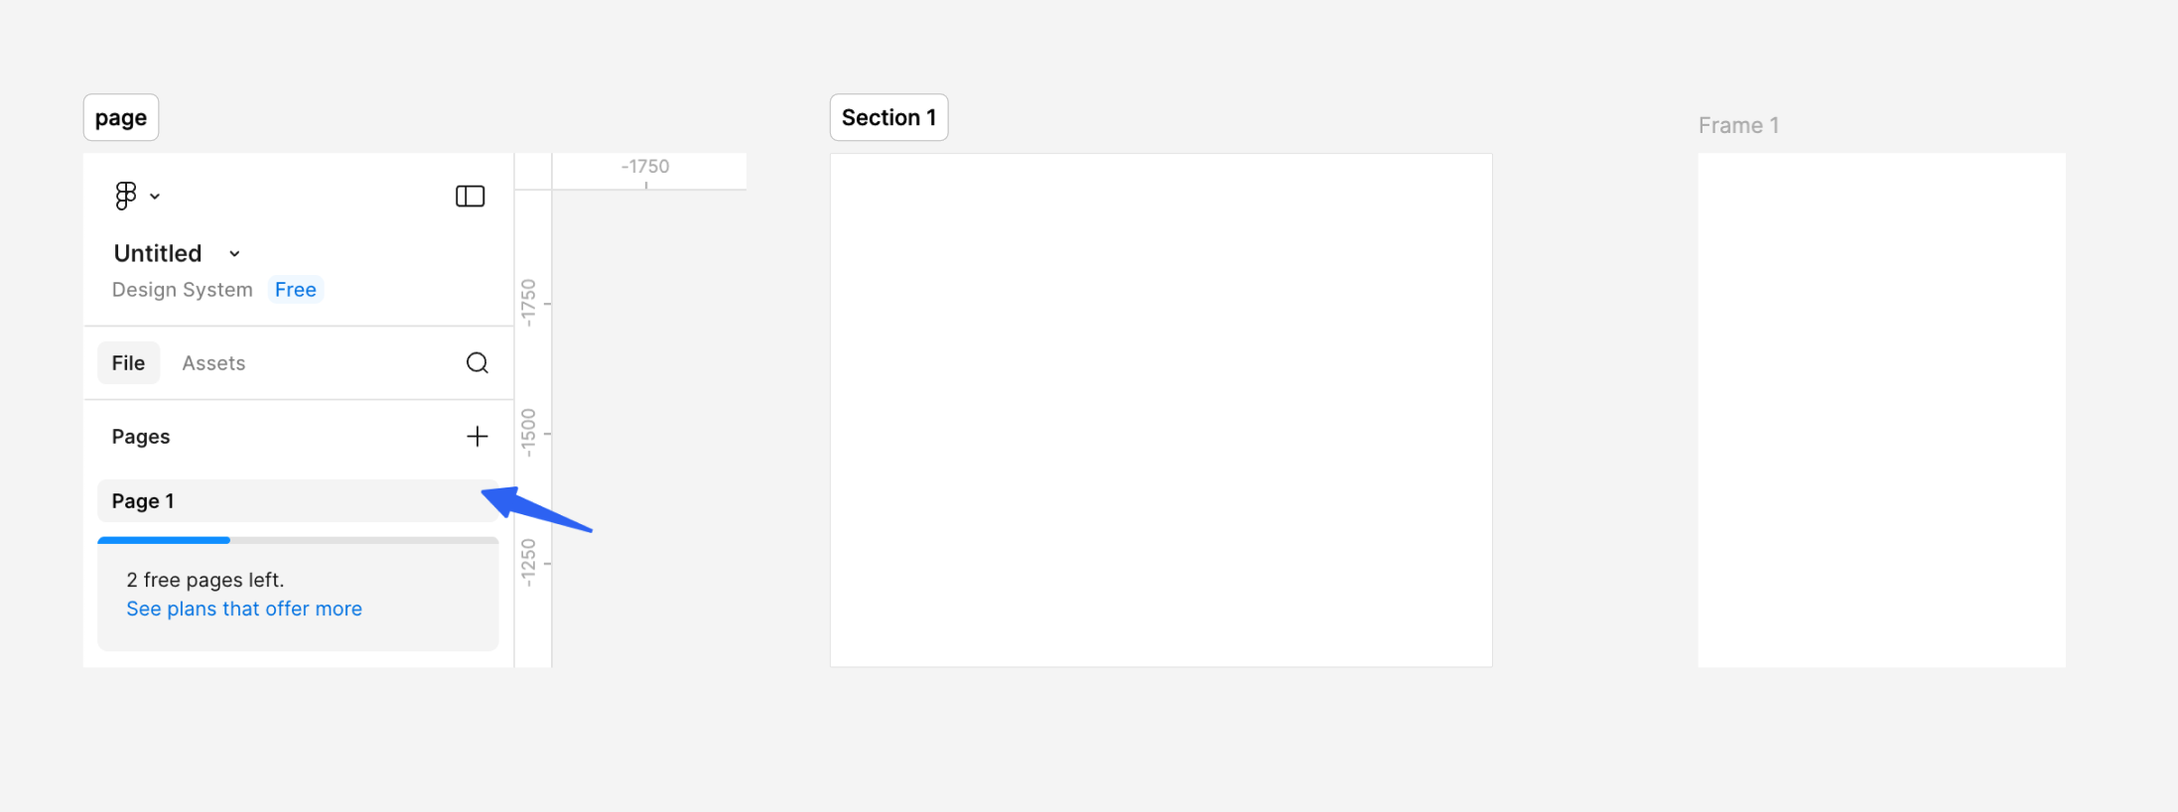
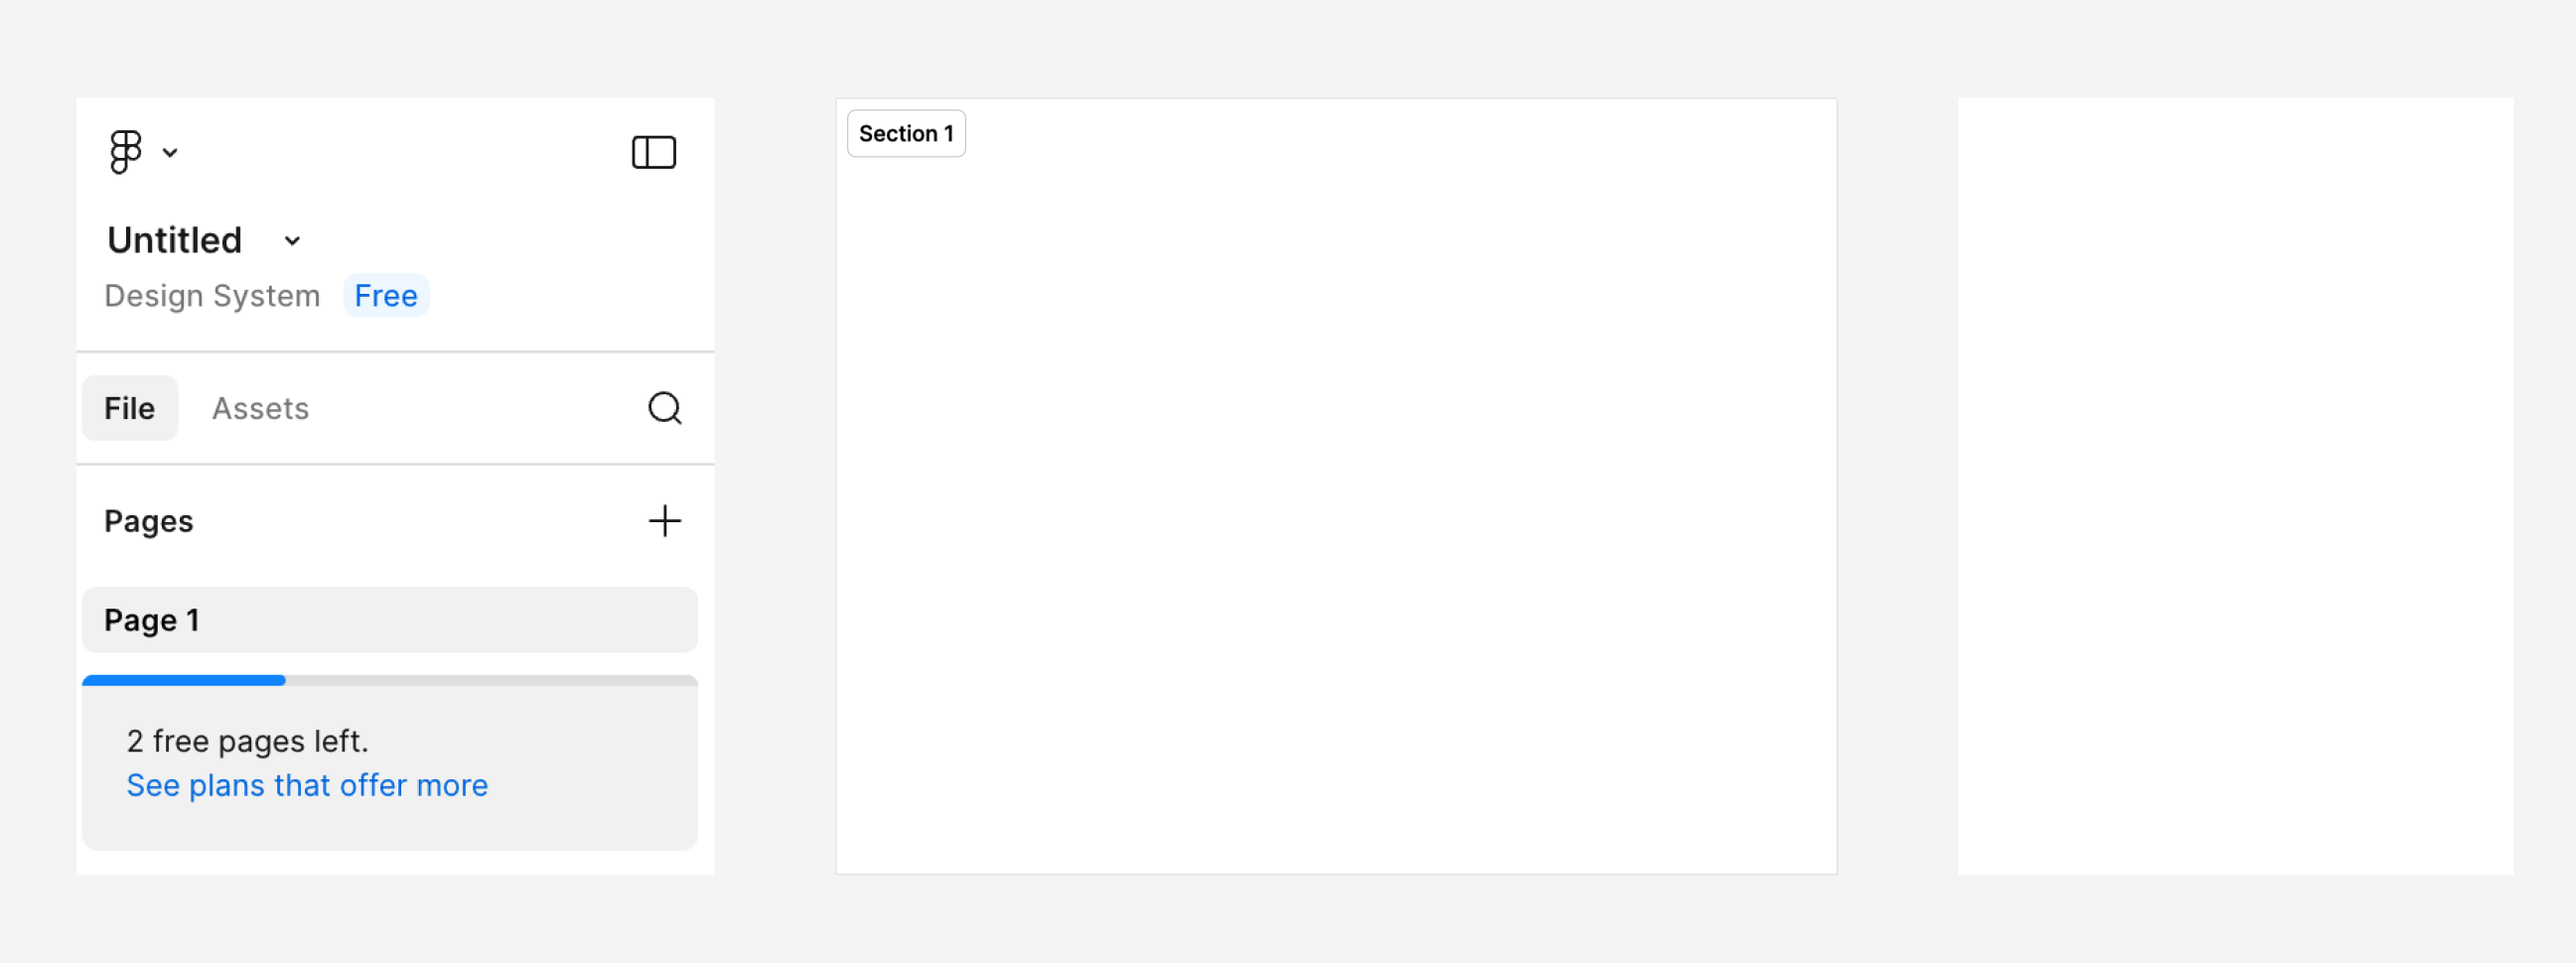
fix: 分析错误详情显示 + 按钮loading样式 + 结构图hover放大 + 图片更新
- analyze.js 返回具体错误类型（超时/key无效/频率限制）
- 前端 toast 显示具体错误信息而非通用"分析失败"
- imgToBase64 压缩到 1200px/质量0.75 减小请求体
- 开始比对按钮 loading 时保持品牌色不再变灰
- Figma 结构图 hover 浮层放大效果
- 替换为新版结构图

diff --git a/public/index.html b/public/index.html
@@ -626,7 +626,8 @@ tailwind.config = {
   .project-icon { width: 40px; height: 40px; border-radius: 12px; display: flex; align-items: center; justify-content: center; flex-shrink: 0; }
   .cta-btn { background: linear-gradient(135deg, var(--color-terracotta) 0%, #D4775A 100%); color: #fff; border: none; border-radius: 999px; padding: 10px 28px; font-size: 14px; font-weight: 600; cursor: pointer; transition: all .3s cubic-bezier(.4,0,.2,1); letter-spacing: .01em; }
   .cta-btn:hover { box-shadow: 0 6px 24px rgba(198,93,59,.3); transform: translateY(-2px); }
-  .cta-btn:disabled { background: #D1D1C9; color: #9A9A90; cursor: not-allowed; box-shadow: none; transform: none; }
+  .cta-btn:disabled:not(.loading) { background: #D1D1C9; color: #9A9A90; cursor: not-allowed; box-shadow: none; transform: none; }
+  .cta-btn.loading { opacity: .85; cursor: wait; box-shadow: none; transform: none; }
   .glass-toolbar { background: rgba(255,255,255,.6); backdrop-filter: blur(20px); -webkit-backdrop-filter: blur(20px); border: 1px solid rgba(255,255,255,.5); border-radius: 16px; box-shadow: 0 4px 20px rgba(31,31,31,.06); }
   /* Staggered entrance */
   .stagger-1 { animation: slideUp .5s cubic-bezier(.16,1,.3,1) .05s both; }
@@ -3269,8 +3270,8 @@ function showFigmaImportHelp() {
       </div>
       <div class="step"><div class="step-num">1</div><div class="step-text"><b>为什么上传 Figma 链接</b><br>在 Figma 中复制的页面链接，粘贴后即可自动拉取设计稿图片，无需手动截图。</div></div>
       <div class="step"><div class="step-num">2</div><div class="step-text"><b>不同链接的导入范围</b><br>• <b>Frame 链接</b> → 导入 1 个画板<br>• <b>Section 链接</b> → 导入该分区下所有 Frame<br>• <b>Page 链接</b> → 导入该页面下所有顶层 Frame
-        <div style="margin-top:12px;overflow:hidden;border-radius:8px;">
-          <img src="figma-structure.png" alt="Figma 层级结构：Page → Section → Frame" style="width:100%;border-radius:8px;border:1px solid #e8e5df;transition:transform .3s ease;transform-origin:center;display:block;" onmouseenter="this.style.transform='scale(1.8)'" onmouseleave="this.style.transform='scale(1)'" />
+        <div style="margin-top:12px;border-radius:8px;cursor:zoom-in;" onmouseenter="(function(el){var r=el.getBoundingClientRect();var z=document.createElement('div');z.id='imgZoomFloat';z.style.cssText='position:fixed;z-index:99999;left:50%;top:50%;transform:translate(-50%,-50%);max-width:90vw;max-height:90vh;pointer-events:none;';z.innerHTML='<img src=&quot;figma-structure.png&quot; style=&quot;max-width:90vw;max-height:90vh;border-radius:12px;box-shadow:0 20px 60px rgba(0,0,0,.25);display:block;&quot;/>';document.body.appendChild(z)})(this)" onmouseleave="var z=document.getElementById('imgZoomFloat');if(z)z.remove()">
+          <img src="figma-structure.png" alt="Figma 层级结构：Page → Section → Frame" style="width:100%;border-radius:8px;border:1px solid #e8e5df;display:block;" />
         </div>
       </div></div>
       <div class="step"><div class="step-num">3</div><div class="step-text"><b>如何复制链接</b><br>• <b>Frame / Section</b>：选中 → 右键 → Copy link<br>• <b>Page</b>：左上角页面列表 → 右键 → Copy link to page</div></div>
@@ -3454,13 +3455,13 @@ function imgToBase64(imgEl) {
   if (!w || !h) {
     throw new Error('图片尺寸为 0，无法转换');
   }
-  const maxW = 1500;
+  const maxW = 1200;
   const scale = Math.min(1, maxW / w);
   canvas.width = w * scale;
   canvas.height = h * scale;
   const ctx = canvas.getContext('2d');
   ctx.drawImage(imgEl, 0, 0, canvas.width, canvas.height);
-  const dataUrl = canvas.toDataURL('image/jpeg', 0.85);
+  const dataUrl = canvas.toDataURL('image/jpeg', 0.75);
   const b64 = dataUrl.split(',')[1];
   if (b64.length < 100) {
     throw new Error('图片转换异常，base64 数据过短');
@@ -3589,6 +3590,7 @@ async function startCompare(btn) {
       figmaPendingImport = null;
     } catch (e) {
       showToast('Figma 导入失败，请检查网络后重试');
+      btn.classList.remove('loading');
       btn.disabled = false;
       btn.querySelector('.btn-arrow').classList.remove('hidden');
       btn.querySelector('.btn-spinner').classList.add('hidden');
@@ -3610,6 +3612,7 @@ async function startCompare(btn) {
 
   // Loading 态
   btn.disabled = true;
+  btn.classList.add('loading');
   btn.querySelector('.btn-arrow').classList.add('hidden');
   btn.querySelector('.btn-spinner').classList.remove('hidden');
   btn.childNodes.forEach(n => { if (n.nodeType === 3 && n.textContent.trim()) n.textContent = '比对中… '; });
@@ -3660,6 +3663,7 @@ async function startCompare(btn) {
   btn.querySelector('.btn-arrow').classList.remove('hidden');
   btn.querySelector('.btn-spinner').classList.add('hidden');
   btn.childNodes.forEach(n => { if (n.nodeType === 3 && n.textContent.trim()) n.textContent = '开始比对 '; });
+  btn.classList.remove('loading');
   btn.disabled = false;
   // 在首页新增项目卡片并保存到 Supabase
   const card = addProjectCard(projectName);
@@ -4917,7 +4921,9 @@ async function analyzePair(btnEl) {
     clearInterval(progressTimer);
     pair.querySelectorAll('.scan-overlay, .analyzing-mask').forEach(el => el.remove());
     btnEl.classList.remove('analyzing');
-    if (err.name === 'AbortError') showToast('分析请求超时，请检查网络后重试');
+    const errMsg = err.name === 'AbortError' ? '分析请求超时，请检查网络后重试' : (err.message || '分析失败');
+    showToast(errMsg);
+    console.error('分析失败详情:', err);
     // 重置按钮为可重新点击状态
     btnEl.innerHTML = '<svg width="16" height="16" fill="none" viewBox="0 0 24 24" stroke="currentColor" stroke-width="2.5"><path stroke-linecap="round" stroke-linejoin="round" d="M21 12a9 9 0 11-2.64-6.36"/><path stroke-linecap="round" stroke-linejoin="round" d="M21 3v6h-6"/></svg>';
 

diff --git a/api/analyze.js b/api/analyze.js
@@ -109,6 +109,11 @@ export default async function handler(req, res) {
     return res.status(200).json({ issues });
   } catch (err) {
     console.error('Analysis error:', err);
-    return res.status(500).json({ error: err.message || '分析失败' });
+    const msg = err.message || '分析失败';
+    const detail = msg.includes('timeout') || msg.includes('aborted') ? '请求超时，图片可能过大'
+      : msg.includes('API key') || msg.includes('403') || msg.includes('401') ? 'API Key 无效或过期'
+      : msg.includes('429') ? 'API 调用频率超限，请稍后重试'
+      : msg;
+    return res.status(500).json({ error: detail });
   }
 }
